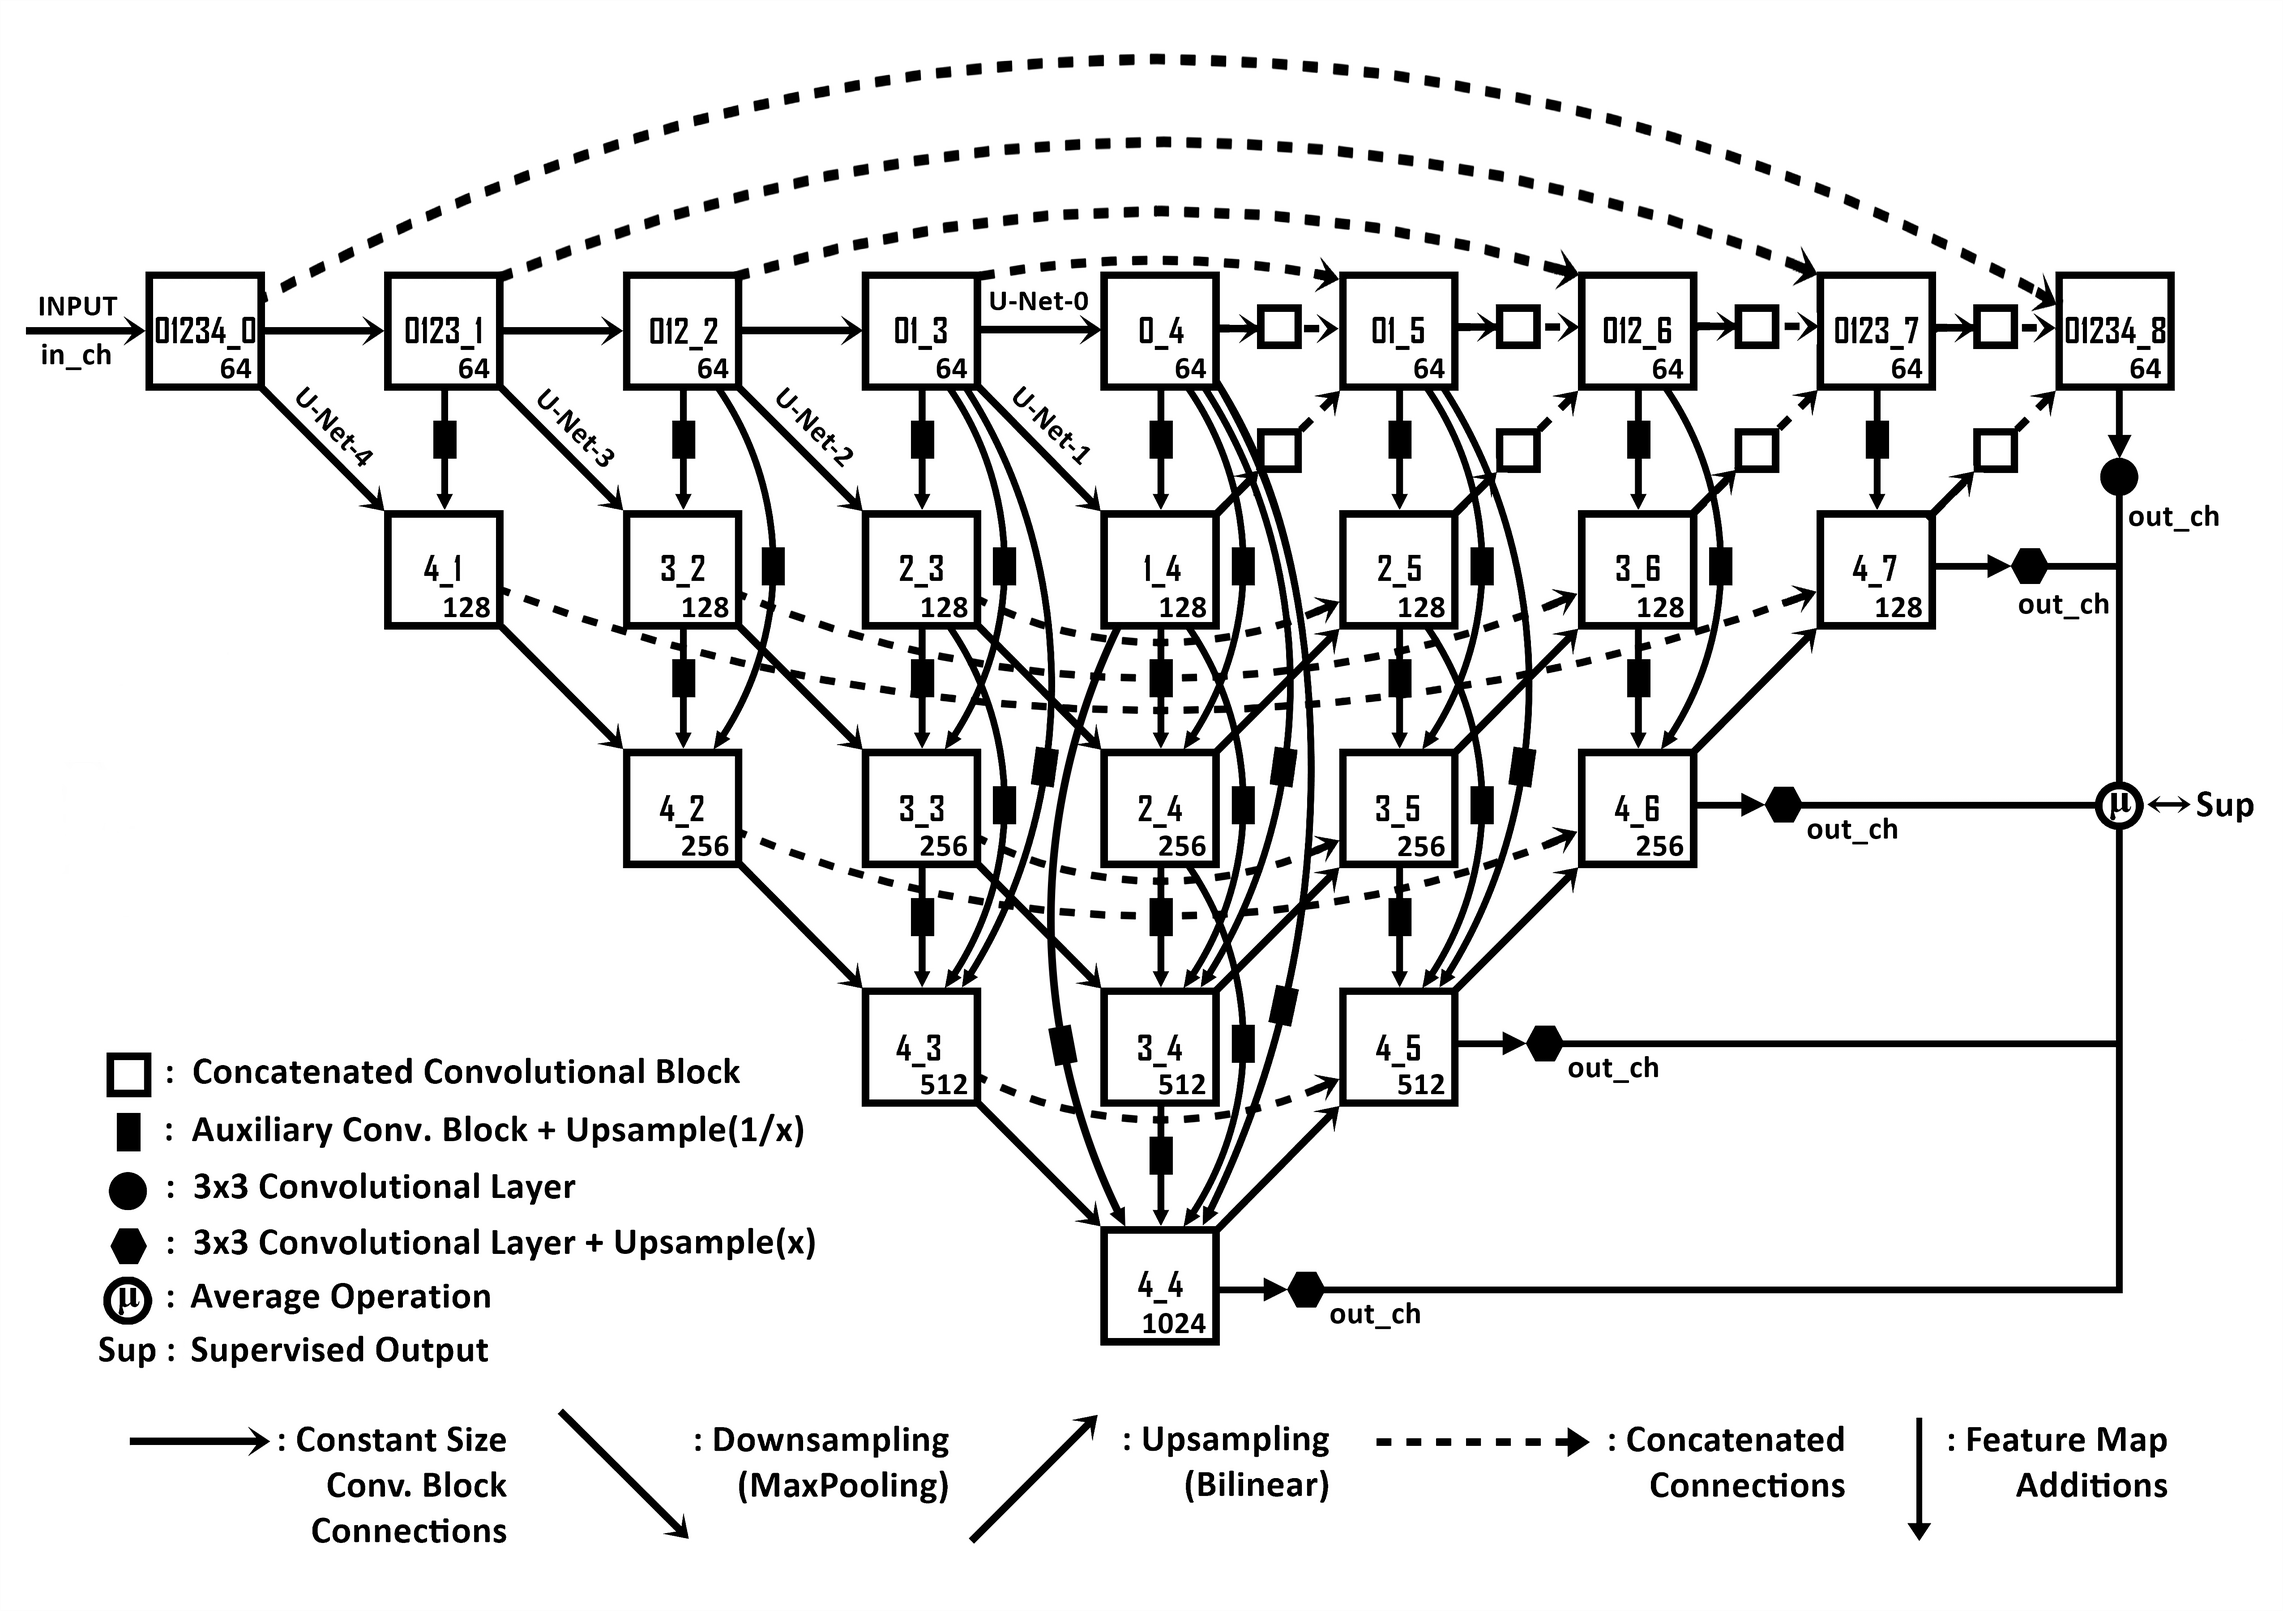
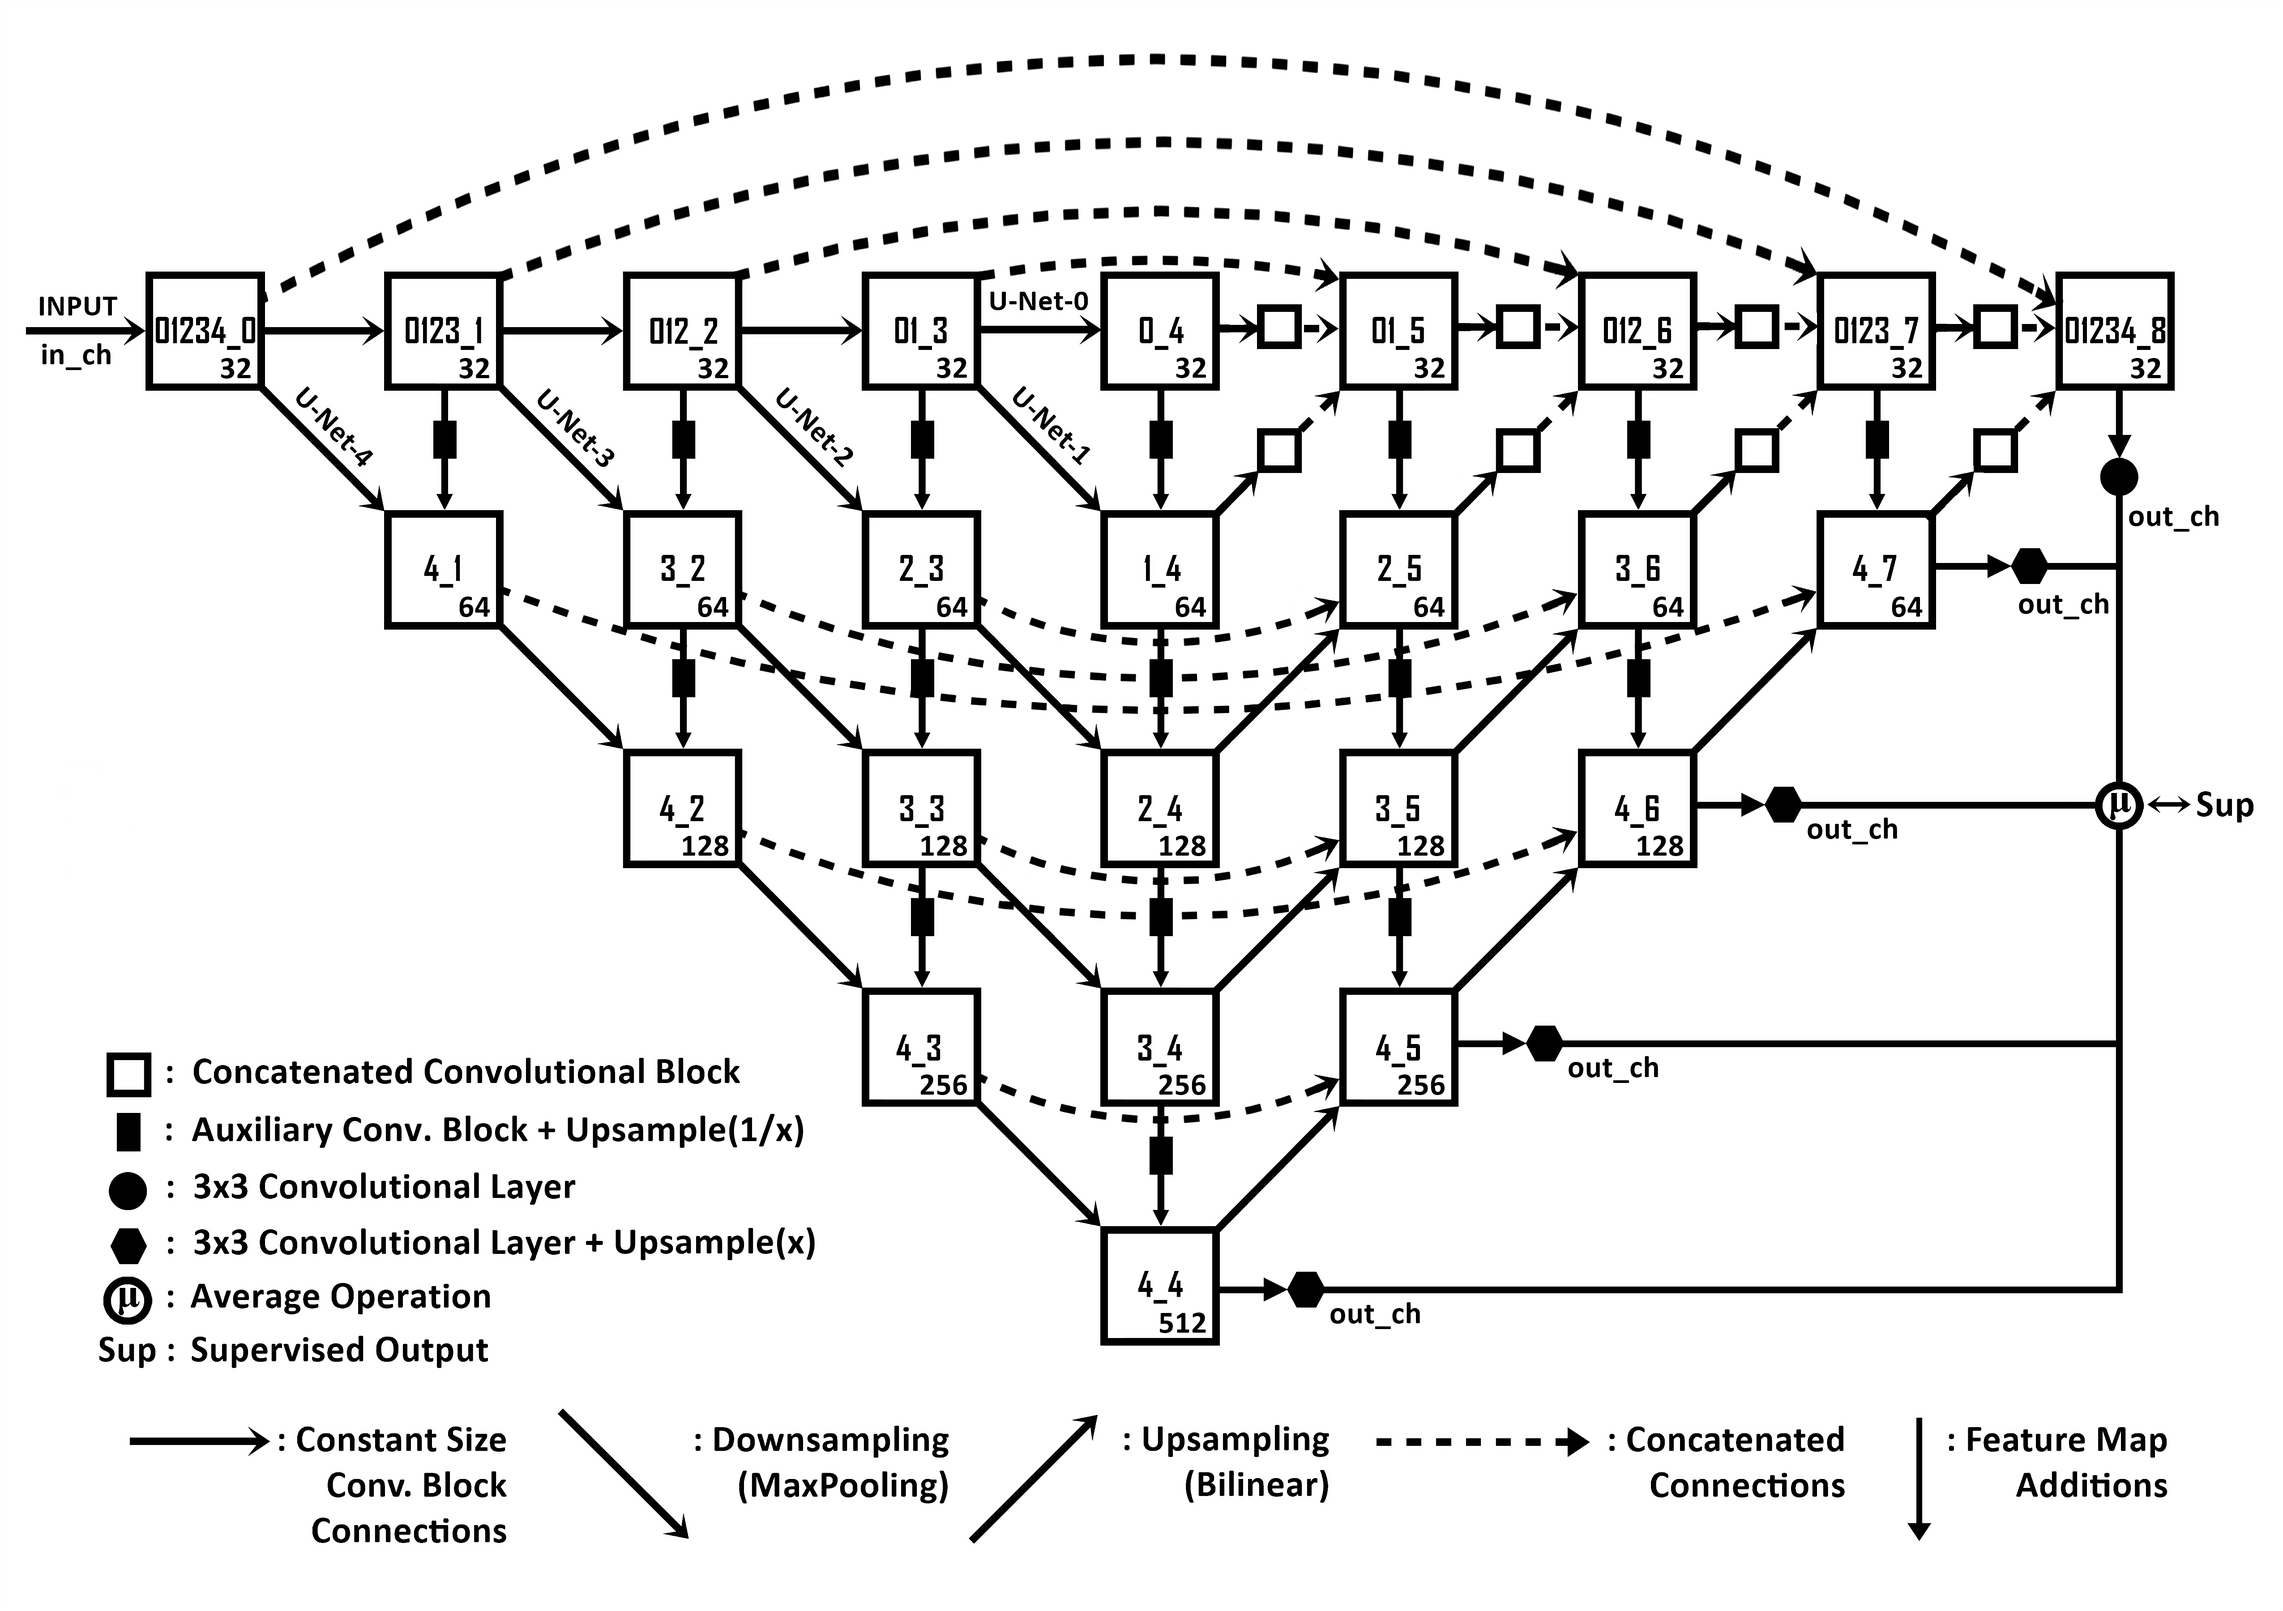
Update U-Net##

diff --git a/model/UNetSharpSharp.py b/model/UNetSharpSharp.py
@@ -8,7 +8,7 @@ class conv_block(nn.Module):
         
         self.conv_block = nn.Sequential(
                           nn.Conv2d(in_ch, out_ch, kernel_size=3, stride=1, padding=1, bias=True),
-                          nn.BatchNorm2d(out_ch),
+                          nn.InstanceNorm2d(out_ch, affine=True),
                           nn.ReLU(inplace=True)
                           )
     
@@ -25,7 +25,7 @@ class down_conv(nn.Module):
         self.down_conv = nn.Sequential(
                          nn.Conv2d(in_ch, out_ch, kernel_size=3, stride=1, padding=1, bias=True),
                          nn.MaxPool2d(kernel_size=2, stride=2),
-                         nn.BatchNorm2d(out_ch),
+                         nn.InstanceNorm2d(out_ch, affine=True),
                          nn.ReLU(inplace=True)
                          )
     
@@ -42,7 +42,7 @@ class up_conv(nn.Module):
         self.up_conv = nn.Sequential(
                        nn.Conv2d(in_ch, out_ch, kernel_size=3, stride=1, padding=1, bias=True),
                        nn.Upsample(scale_factor=2, mode='bilinear', align_corners=True),
-                       nn.BatchNorm2d(out_ch),
+                       nn.InstanceNorm2d(out_ch, affine=True),
                        nn.ReLU(inplace=True)
                        )
     
@@ -58,7 +58,7 @@ class inter_conv(nn.Module):
         
         self.inter_conv = nn.Sequential(
                           nn.Conv2d(in_ch, out_ch, kernel_size=3, stride=1, padding=1, bias=True),
-                          nn.BatchNorm2d(out_ch),
+                          nn.InstanceNorm2d(out_ch, affine=True),
                           nn.ReLU(inplace=True),
                           nn.Upsample(scale_factor=scale, mode='bilinear', align_corners=True),
                           )
@@ -73,7 +73,7 @@ class UNetSharpSharp(nn.Module):
     def __init__(self, in_ch, out_ch):
         super(UNetSharpSharp, self).__init__()
         
-        filters=[64, 128, 256, 512, 1024]
+        filters = [32, 64, 128, 256, 512]
         
         # Step-1: Encode-0 Blocks of the U-Nets
         self.Input_to_B01234_0   = conv_block(in_ch, filters[0])
@@ -92,8 +92,6 @@ class UNetSharpSharp(nn.Module):
         
         # Step-5: Auxiliary Convolution Blocks for the Encode-2 Feature Maps
         self.B012_2_to_B3_2      = inter_conv(filters[0], filters[1], 0.5)
-        
-        self.B012_2_to_B4_2      = inter_conv(filters[0], filters[2], 0.25)
         self.B3_2_to_B4_2        = inter_conv(filters[1], filters[2], 0.5)
         
         # Step-6: Encode-3 Blocks of the U-Nets
@@ -104,12 +102,7 @@ class UNetSharpSharp(nn.Module):
         
         # Step-7: Auxiliary Convolution Blocks for the Encode-3 Feature Maps
         self.B01_3_to_B2_3       = inter_conv(filters[0], filters[1], 0.5)
-        
-        self.B01_3_to_B3_3       = inter_conv(filters[0], filters[2], 0.25)
         self.B2_3_to_B3_3        = inter_conv(filters[1], filters[2], 0.5)
-        
-        self.B01_3_to_B4_3       = inter_conv(filters[0], filters[3], 0.125)
-        self.B2_3_to_B4_3        = inter_conv(filters[1], filters[3], 0.25)
         self.B3_3_to_B4_3        = inter_conv(filters[2], filters[3], 0.5)
         
         # Step-8: Encode-4 Blocks of the U-Nets
@@ -121,17 +114,8 @@ class UNetSharpSharp(nn.Module):
         
         # Step-9: Auxiliary Convolution Blocks for the Encode-4 Feature Maps
         self.B0_4_to_B1_4        = inter_conv(filters[0], filters[1], 0.5)
-        
-        self.B0_4_to_B2_4        = inter_conv(filters[0], filters[2], 0.25)
         self.B1_4_to_B2_4        = inter_conv(filters[1], filters[2], 0.5)
-        
-        self.B0_4_to_B3_4        = inter_conv(filters[0], filters[3], 0.125)
-        self.B1_4_to_B3_4        = inter_conv(filters[1], filters[3], 0.25)
         self.B2_4_to_B3_4        = inter_conv(filters[2], filters[3], 0.5)
-        
-        self.B0_4_to_B4_4        = inter_conv(filters[0], filters[4], 0.0625)
-        self.B1_4_to_B4_4        = inter_conv(filters[1], filters[4], 0.125)
-        self.B2_4_to_B4_4        = inter_conv(filters[2], filters[4], 0.25)
         self.B3_4_to_B4_4        = inter_conv(filters[3], filters[4], 0.5)
         
         # Step-10: Decode-3 Blocks of the U-Nets
@@ -144,12 +128,7 @@ class UNetSharpSharp(nn.Module):
         
         # Step-11: Auxiliary Convolution Blocks for the Decode-3 Feature Maps
         self.B01_5_to_B2_5       = inter_conv(filters[0], filters[1], 0.5)
-        
-        self.B01_5_to_B3_5       = inter_conv(filters[0], filters[2], 0.25)
         self.B2_5_to_B3_5        = inter_conv(filters[1], filters[2], 0.5)
-        
-        self.B01_5_to_B4_5       = inter_conv(filters[0], filters[3], 0.125)
-        self.B2_5_to_B4_5        = inter_conv(filters[1], filters[3], 0.25)
         self.B3_5_to_B4_5        = inter_conv(filters[2], filters[3], 0.5)
         
         # Step-12: Convolution Blocks for the Skip Connection Concatenations on the Decode-3 Blocks
@@ -167,8 +146,6 @@ class UNetSharpSharp(nn.Module):
         
         # Step-14: Auxiliary Convolution Blocks for the Decode-2 Feature Maps
         self.B012_6_to_B3_6      = inter_conv(filters[0], filters[1], 0.5)
-        
-        self.B012_6_to_B4_6      = inter_conv(filters[0], filters[2], 0.25)
         self.B3_6_to_B4_6        = inter_conv(filters[1], filters[2], 0.5)
         
         # Step-15: Convolution Blocks for the Skip Connection Concatenations on the Decode-2 Blocks
@@ -222,7 +199,7 @@ class UNetSharpSharp(nn.Module):
                 nn.init.kaiming_uniform_(m.weight, mode='fan_in', nonlinearity='relu')
                 if m.bias is not None:
                     nn.init.constant_(m.bias, 0.)
-            elif isinstance(m, nn.BatchNorm2d):
+            elif isinstance(m, nn.InstanceNorm2d):
                 nn.init.constant_(m.weight, 1.)
                 nn.init.constant_(m.bias, 0.)
     
@@ -245,7 +222,7 @@ class UNetSharpSharp(nn.Module):
         x4_2     = self.B4_1_to_B4_2     (x4_1)
         
         # Step-5: Addition of the Encode-2 Feature Maps
-        x4_2     = ( x4_2 + self.B012_2_to_B4_2(x012_2) + self.B3_2_to_B4_2(x3_2) )
+        x4_2     = ( x4_2 + self.B3_2_to_B4_2(x3_2) )
         x3_2     = ( x3_2 + self.B012_2_to_B3_2(x012_2) )
         
         # Step-6: Encode-3 Blocks of the U-Nets
@@ -255,8 +232,8 @@ class UNetSharpSharp(nn.Module):
         x4_3     = self.B4_2_to_B4_3   (x4_2)
         
         # Step-7: Addition of the Encode-3 Feature Maps
-        x4_3     = ( x4_3  + self.B01_3_to_B4_3(x01_3) + self.B2_3_to_B4_3(x2_3) + self.B3_3_to_B4_3(x3_3) )
-        x3_3     = ( x3_3  + self.B01_3_to_B3_3(x01_3) + self.B2_3_to_B3_3(x2_3) )
+        x4_3     = ( x4_3  + self.B3_3_to_B4_3(x3_3) )
+        x3_3     = ( x3_3  + self.B2_3_to_B3_3(x2_3) )
         x2_3     = ( x2_3  + self.B01_3_to_B2_3(x01_3) )
         
         # Step-8: Encode-4 Blocks of the U-Nets
@@ -267,9 +244,9 @@ class UNetSharpSharp(nn.Module):
         x4_4     = self.B4_3_to_B4_4 (x4_3)
         
         # Step-9: Addition of the Encode-4 Feature Maps
-        x4_4     = ( x4_4 + self.B0_4_to_B4_4(x0_4) + self.B1_4_to_B4_4(x1_4) + self.B2_4_to_B4_4(x2_4) + self.B3_4_to_B4_4(x3_4) )
-        x3_4     = ( x3_4 + self.B0_4_to_B3_4(x0_4) + self.B1_4_to_B3_4(x1_4) + self.B2_4_to_B3_4(x2_4) )
-        x2_4     = ( x2_4 + self.B0_4_to_B2_4(x0_4) + self.B1_4_to_B2_4(x1_4) )
+        x4_4     = ( x4_4 + self.B3_4_to_B4_4(x3_4) )
+        x3_4     = ( x3_4 + self.B2_4_to_B3_4(x2_4) )
+        x2_4     = ( x2_4 + self.B1_4_to_B2_4(x1_4) )
         x1_4     = ( x1_4 + self.B0_4_to_B1_4(x0_4) )
         
         # Step-10: Decode-3 Blocks of the U-Nets
@@ -280,8 +257,8 @@ class UNetSharpSharp(nn.Module):
         x4_5     = self.B4_4_to_B4_5    (x4_4)
         
         # Step-11: Addition of the Decode-3 Feature Maps
-        x4_5     = ( x4_5 + self.B01_5_to_B4_5(x01_5) + self.B2_5_to_B4_5(x2_5) + self.B3_5_to_B4_5(x3_5) )
-        x3_5     = ( x3_5 + self.B01_5_to_B3_5(x01_5) + self.B2_5_to_B3_5(x2_5) )
+        x4_5     = ( x4_5 + self.B3_5_to_B4_5(x3_5) )
+        x3_5     = ( x3_5 + self.B2_5_to_B3_5(x2_5) )
         x2_5     = ( x2_5 + self.B01_5_to_B2_5(x01_5) )
         
         # Step-12: Concatenating Skip Connections to the Decode-3 Blocks
@@ -304,7 +281,7 @@ class UNetSharpSharp(nn.Module):
         x4_6     = self.B4_5_to_B4_6     (x4_5)
         
         # Step-14: Addition of the Decode-2 Feature Maps
-        x4_6     = ( x4_6 + self.B012_6_to_B4_6(x012_6) + self.B3_6_to_B4_6(x3_6) )
+        x4_6     = ( x4_6 + self.B3_6_to_B4_6(x3_6) )
         x3_6     = ( x3_6 + self.B012_6_to_B3_6(x012_6) )
         
         # Step-15: Concatenating Skip Connections to the Decode-2 Blocks
@@ -320,7 +297,7 @@ class UNetSharpSharp(nn.Module):
         # Step-16: Decode-1 Blocks of the U-Nets        
         x0123_7  = torch.cat((self.B012_6_to_B0123_7(x012_6), self.B3_6_to_B0123_7(x3_6)), dim=1)
         x0123_7  = self.B0123_7_Cat_Blocks(x0123_7)
-        x4_7     = self.B4_6_to_B4_7      (x4_6)
+        x4_7     = self.B4_6_to_B4_7(x4_6)
         
         # Step-17: Addition of the Decode-1 Feature Maps
         x4_7     = ( x4_7 + self.B0123_7_to_B4_7(x0123_7) )

diff --git a/README.md b/README.md
@@ -1,21 +1,43 @@
-# U-Net##: A Powerful Novel Architecture for Medical Image Segmentation
+# U-Net\#\#: A Powerful Novel Architecture for Medical Image Segmentation
 Official PyTorch implementation of the MICAD 2022 conference paper: ["U-Net##: A Powerful Novel Architecture for Medical Image Segmentation"](https://link.springer.com/chapter/10.1007/978-981-16-6775-6_19)
 
 ## Information
 
 In this paper, we propose a powerful novel architecture named U-Net##, which consists of multiple overlapping U-Net pathways and has the strategies of sharing feature maps between parallel neural networks, using auxiliary convolutional blocks for additional feature extractions and deep supervision, so that it performs as a boosted U-Net model for medical image segmentation.
 
-## Architecture
+## UPDATE: New U-Net\#\# Architecture ##
 
-### Block Diagram of the U-Net## Architecture
+### Changes: ###
+* Feature map additions from distant network pathways are omitted.
+* BatchNorm layers are changed to InstanceNorm layers.
+* Number of filters is reduced by 50%.
+
+### Results: ###
+* Better performance.
+* ~4x faster training speed.
+* Less number of total parameters: 8.9M
+
+## New Architecture
+
+### Block Diagram of the New U-Net\#\# Architecture
 
 <img title="U-Net## Block Diagram" src="https://github.com/firatkorkmaz/UNetSharpSharp/blob/main/images/UNetSharpSharp.png">
 
-### Convolutional Blocks of the U-Net## Architecture
+### Convolutional Blocks of the New U-Net\#\# Architecture
 
 <img title="U-Net## Convolutional Blocks" src="https://github.com/firatkorkmaz/UNetSharpSharp/blob/main/images/UNetSharpSharpCB.png">
 
-## Results
+## Original Architecture
+
+### Block Diagram of the Original U-Net\#\# Architecture
+
+<img title="U-Net## Block Diagram" src="https://github.com/firatkorkmaz/UNetSharpSharp/blob/main/images/UNetSharpSharp_Original.png">
+
+### Convolutional Blocks of the Original U-Net\#\# Architecture
+
+<img title="U-Net## Convolutional Blocks" src="https://github.com/firatkorkmaz/UNetSharpSharp/blob/main/images/UNetSharpSharpCB_Original.png">
+
+## Results from the Original Architecture
 
 The U-Net## model is evaluated on the TCIA-LGG Segmentation Dataset from The Cancer Imaging Archive (TCIA) to segment the brain regions with FLAIR abnormalities on the related brain MRI images.
 
